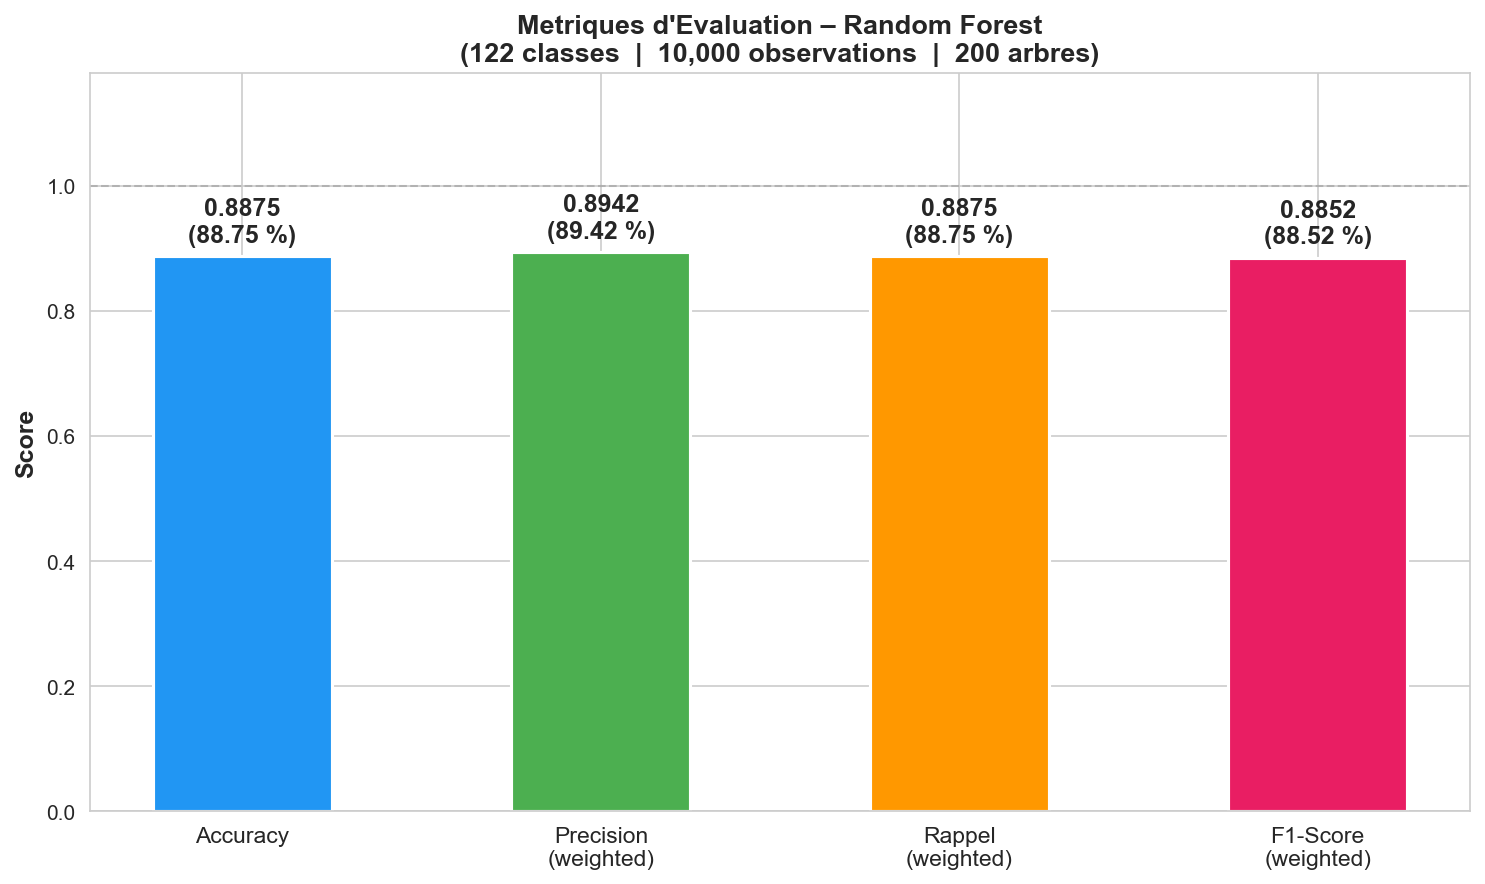
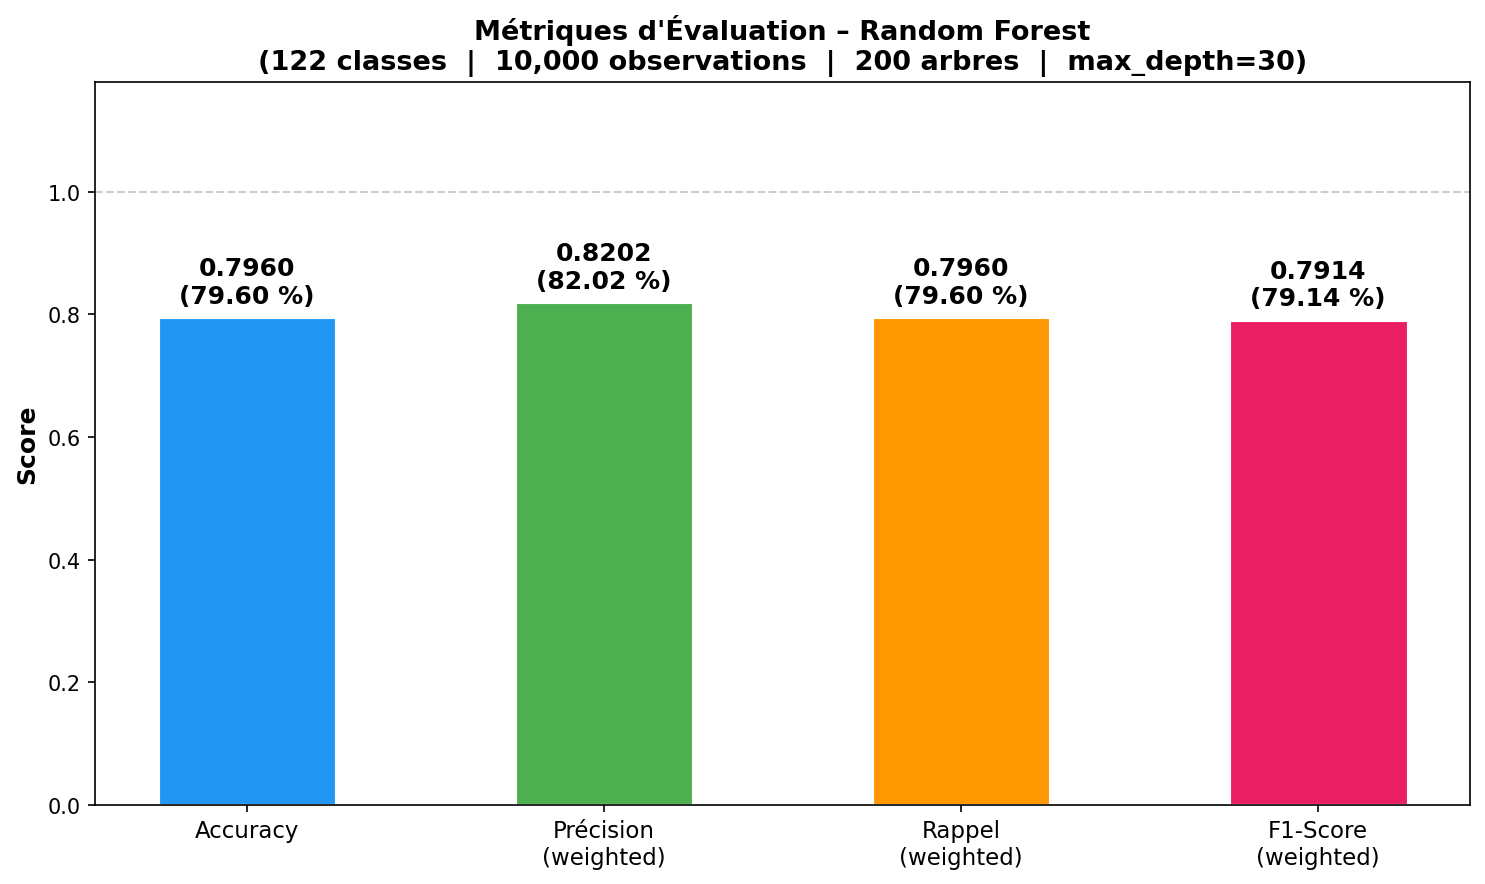
fix: figure 11 mise à jour avec modèle régularisé (max_depth=30)
- Remplace l'ancien modèle non-régularisé (max_depth=None → 88.75% trop optimiste)
- Nouvelle figure 11 : Accuracy 79.6% / Précision 82% / Rappel 79.6% / F1 79.1%
- Cohérent avec la courbe d'apprentissage (figure 10) et le modèle backend (82.8%)
- Ajout regen_figure_11.py pour régénérations ciblées futures
- analyse_complete.py : hyperparamètres principaux alignés sur max_depth=30

diff --git a/analyse_ml/regen_figure_11.py b/analyse_ml/regen_figure_11.py
@@ -1,0 +1,128 @@
+#!/usr/bin/env python3
+# -*- coding: utf-8 -*-
+"""Régénère uniquement la figure 11 (métriques globales) avec le modèle régularisé."""
+
+import pandas as pd
+import numpy as np
+import matplotlib
+matplotlib.use('Agg')
+import matplotlib.pyplot as plt
+from sklearn.ensemble import RandomForestClassifier
+from sklearn.model_selection import train_test_split
+from sklearn.preprocessing import LabelEncoder, MultiLabelBinarizer
+from sklearn.metrics import accuracy_score, precision_score, recall_score, f1_score
+import warnings, os
+
+warnings.filterwarnings('ignore')
+plt.rcParams['figure.dpi'] = 150
+plt.rcParams['font.size'] = 10
+plt.rcParams['figure.facecolor'] = 'white'
+os.makedirs('figures', exist_ok=True)
+
+print("Chargement du dataset...")
+df = pd.read_csv("../les ressources dataset/dataset_medical_robust_10000_cas.csv", encoding='utf-8')
+n_obs = len(df)
+
+numerical_cols = df.select_dtypes(include=[np.number]).columns.tolist()
+numerical_cols = [c for c in numerical_cols if c != 'ID']
+
+le_sexe = LabelEncoder()
+df['Sexe_enc'] = le_sexe.fit_transform(df['Sexe'].fillna('M'))
+severity_map = {'Légère': 1, 'Modérée': 2, 'Sévère': 3, 'Critique': 4}
+df['Severite_enc'] = df['Severite'].map(severity_map).fillna(2).astype(int)
+groupe_age_map = {'0-10': 0, '11-17': 1, '18-30': 2, '31-50': 3, '50-65': 4, '65+': 5}
+df['Groupe_Age_enc'] = df['Groupe_Age'].map(groupe_age_map).fillna(3).astype(int)
+
+# Features d'ingénierie (identiques au pipeline backend)
+df['categorie_age'] = pd.cut(df['Age'], bins=[0, 12, 18, 60, 120],
+                              labels=[0, 1, 2, 3]).astype(float).fillna(2)
+fc_col  = 'Vital_Fréquence Cardiaque (bpm)'
+o2_col  = 'Vital_Saturation O2 (%)'
+tmp_col = 'Vital_Température (°C)'
+if fc_col in df.columns and o2_col in df.columns:
+    df['ratio_fc_o2'] = df[fc_col] / (df[o2_col] + 1)
+
+symptoms_lists = df['Symptomes_Rapportes'].fillna('').apply(
+    lambda s: [x.strip() for x in s.split(',') if x.strip()])
+df['nombre_symptomes'] = symptoms_lists.apply(len)
+
+if tmp_col in df.columns and o2_col in df.columns:
+    df['score_risque'] = ((df[tmp_col] > 38.5).astype(int) * 2
+                          + (df[o2_col] < 95).astype(int) * 3
+                          + df['nombre_symptomes'])
+
+mlb = MultiLabelBinarizer()
+symptom_matrix = mlb.fit_transform(symptoms_lists)
+symptom_cols = [f'SYM_{s.replace(" ", "_").replace("/", "_")}' for s in mlb.classes_]
+df_symptoms = pd.DataFrame(symptom_matrix, columns=symptom_cols, index=df.index)
+
+eng_cols = ['categorie_age', 'ratio_fc_o2', 'score_risque', 'nombre_symptomes']
+num_cat_cols = numerical_cols + ['Sexe_enc', 'Severite_enc', 'Groupe_Age_enc'] + [c for c in eng_cols if c in df.columns]
+num_cat_cols = [c for c in num_cat_cols if c in df.columns]
+X_num = df[num_cat_cols].fillna(df[num_cat_cols].median())
+X = pd.concat([X_num.reset_index(drop=True), df_symptoms.reset_index(drop=True)], axis=1)
+
+le_target = LabelEncoder()
+y = le_target.fit_transform(df['Maladie_Diagnostic'])
+n_classes = len(le_target.classes_)
+
+X_train, X_test, y_train, y_test = train_test_split(
+    X, y, test_size=0.2, random_state=42, stratify=y)
+
+print(f"Dataset: {n_obs} obs | {X.shape[1]} features | {n_classes} classes")
+print("Entraînement du modèle régularisé (max_depth=18)...")
+
+rf_model = RandomForestClassifier(
+    n_estimators=200,
+    max_depth=30,
+    min_samples_split=5,
+    min_samples_leaf=2,
+    max_features='sqrt',
+    class_weight='balanced',
+    n_jobs=-1,
+    random_state=42
+)
+rf_model.fit(X_train, y_train)
+y_pred = rf_model.predict(X_test)
+
+accuracy  = accuracy_score(y_test, y_pred)
+precision = precision_score(y_test, y_pred, average='weighted', zero_division=0)
+recall    = recall_score(y_test, y_pred, average='weighted', zero_division=0)
+f1        = f1_score(y_test, y_pred, average='weighted', zero_division=0)
+
+print(f"  Accuracy  : {accuracy*100:.2f}%")
+print(f"  Precision : {precision*100:.2f}%")
+print(f"  Rappel    : {recall*100:.2f}%")
+print(f"  F1-Score  : {f1*100:.2f}%")
+
+print("\nGénération figure 11 – Métriques globales...")
+
+metrics_labels = ['Accuracy', 'Précision\n(weighted)', 'Rappel\n(weighted)', 'F1-Score\n(weighted)']
+metrics_values = [accuracy, precision, recall, f1]
+colors_metrics = ['#2196F3', '#4CAF50', '#FF9800', '#E91E63']
+
+fig, ax = plt.subplots(figsize=(10, 6))
+bars = ax.bar(metrics_labels, metrics_values,
+              color=colors_metrics, edgecolor='white', linewidth=1.5, width=0.5)
+ax.set_ylim([0, 1.18])
+ax.set_ylabel('Score', fontsize=12, fontweight='bold')
+ax.set_title(
+    "Métriques d'Évaluation – Random Forest\n"
+    f"({n_classes} classes  |  {n_obs:,} observations  |  200 arbres  |  max_depth=30)",
+    fontsize=13, fontweight='bold'
+)
+ax.axhline(y=1.0, color='gray', linestyle='--', alpha=0.4, linewidth=1)
+for bar, val in zip(bars, metrics_values):
+    ax.text(
+        bar.get_x() + bar.get_width() / 2,
+        bar.get_height() + 0.015,
+        f'{val:.4f}\n({val*100:.2f} %)',
+        ha='center', va='bottom',
+        fontsize=12, fontweight='bold'
+    )
+ax.tick_params(axis='x', labelsize=11)
+
+plt.tight_layout()
+plt.savefig('figures/11_metriques_globales.png', bbox_inches='tight')
+plt.close()
+print("  -> figures/11_metriques_globales.png  OK")

diff --git a/analyse_ml/analyse_complete.py b/analyse_ml/analyse_complete.py
@@ -358,7 +358,7 @@ print("\n[6/8] Entraînement du modele Random Forest...")
 
 rf_model = RandomForestClassifier(
     n_estimators=200,
-    max_depth=None,
+    max_depth=30,
     min_samples_split=5,
     min_samples_leaf=2,
     max_features='sqrt',